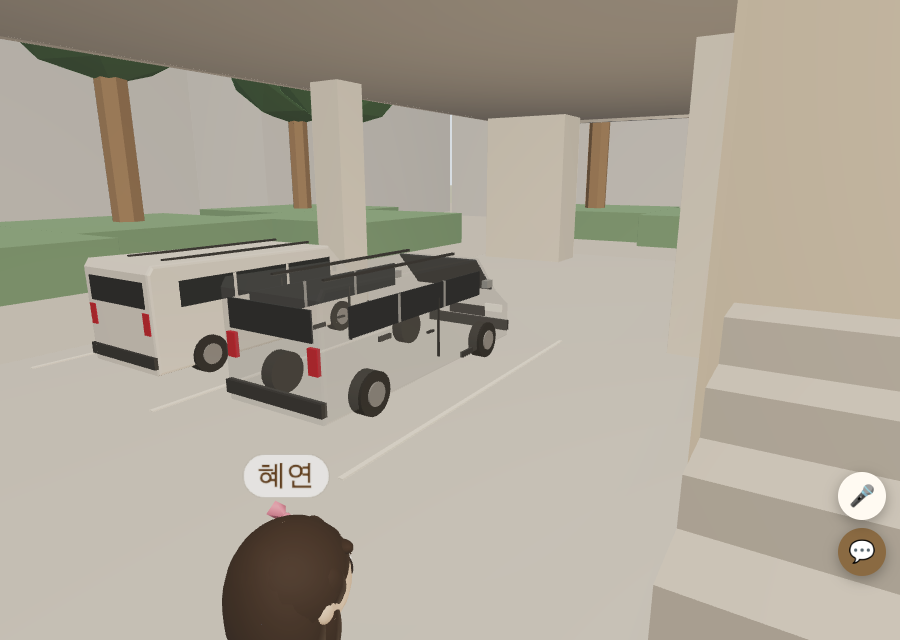
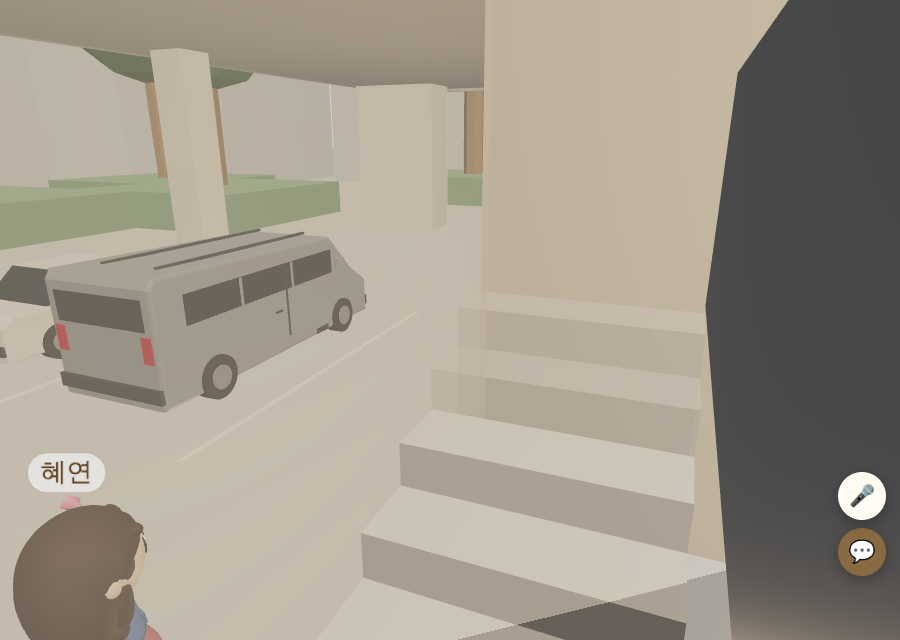
주차장: 승합차는 회색 1대만, 나머지 둘은 승용차로
Claude-Session: https://claude.ai/code/session_01Vz1QJf3UdmpjXu7m5EnhFF

diff --git a/index.html b/index.html
@@ -1666,7 +1666,31 @@
         B(0.03, 0.12, 0.5, h + 0.02, 0.38, 0, trim);                                                               // 앞 그릴
         [-0.3, 0.3].forEach((rz) => B(L - 1.1, 0.025, 0.03, -0.25, 1.19, rz, trim));                                // 지붕 가로대
       };
-      van(-10.8, -7.2, 0xf4f4f2); van(-8.6, -7.2, 0x9aa0a6); van(-4.2, -7.2, 0x2f3b4f);
+      // 승용차 (같은 0.6배: 길이 2.7 · 폭 1.1 · 높이 0.86). 앞은 북쪽
+      const sedan = (x, z, col) => {
+        const g = new THREE.Group(); g.position.set(x, F1_Y, z); g.rotation.y = Math.PI / 2; f1.add(g);
+        const L = 2.7, W = 1.1, h = L / 2;
+        const body = new THREE.MeshStandardMaterial({ color: col, roughness: 0.35, metalness: 0.15 }), glass = new THREE.MeshStandardMaterial({ color: 0x232c36, roughness: 0.1, metalness: 0.3 });
+        const trim = k.M(0x2c2f33, 0.6), tire = k.M(0x18191b, 0.8), hubM = new THREE.MeshStandardMaterial({ color: 0xc9ccd1, roughness: 0.25, metalness: 0.6 });
+        const headM = new THREE.MeshStandardMaterial({ color: 0xf8f6ee, emissive: 0xfff3d6, emissiveIntensity: 0.3, roughness: 0.2 }), tailM = new THREE.MeshStandardMaterial({ color: 0xb3261e, emissive: 0x8a1a14, emissiveIntensity: 0.25, roughness: 0.3 });
+        const add = (m, px, py, pz) => { m.position.set(px, py, pz); m.castShadow = m.receiveShadow = true; g.add(m); return m; };
+        const B = (w, hh, d, px, py, pz, m) => add(new THREE.Mesh(new THREE.BoxGeometry(w, hh, d), m), px, py, pz);
+        const ext = (pts, depth, m) => { const geo = new THREE.ExtrudeGeometry(new THREE.Shape(pts.map(([u, v]) => new THREE.Vector2(u, v))), { depth, bevelEnabled: true, bevelThickness: 0.025, bevelSize: 0.025, bevelSegments: 2 }); geo.translate(0, 0, -depth / 2); return add(new THREE.Mesh(geo, m), 0, 0, 0); };
+        ext([[-h, 0.14], [h, 0.14], [h, 0.4], [h - 0.15, 0.5], [-h + 0.1, 0.54], [-h, 0.46]], W - 0.05, body);                 // 아래 차체
+        ext([[-h + 0.45, 0.52], [h - 0.75, 0.52], [h - 1.15, 0.82], [-h + 0.8, 0.82]], W - 0.2, glass);                           // 창
+        B(L - 2.0 + 0.05, 0.03, W - 0.18, (-h + 0.8 + h - 1.15) / 2, 0.835, 0, body);                                             // 지붕
+        B(0.06, 0.28, W - 0.16, -0.12, 0.67, 0, body);                                                                             // 가운데 기둥
+        B(0.06, 0.1, W - 0.04, h + 0.02, 0.24, 0, trim); B(0.06, 0.1, W - 0.04, -h - 0.02, 0.24, 0, trim);                        // 범퍼
+        [-1, 1].forEach((sz) => {
+          B(0.04, 0.06, 0.24, h + 0.01, 0.4, sz * (W / 2 - 0.2), headM); B(0.04, 0.07, 0.22, -h - 0.01, 0.43, sz * (W / 2 - 0.2), tailM);
+          B(0.1, 0.06, 0.06, h - 0.8, 0.6, sz * (W / 2 + 0.03), body);                                                             // 옆 거울
+          [h - 0.5, -h + 0.5].forEach((wx) => {
+            const t = add(new THREE.Mesh(new THREE.CylinderGeometry(0.19, 0.19, 0.13, 22), tire), wx, 0.19, sz * (W / 2 - 0.04)); t.rotation.x = Math.PI / 2;
+            const c = add(new THREE.Mesh(new THREE.CylinderGeometry(0.1, 0.1, 0.02, 18), hubM), wx, 0.19, sz * (W / 2 + 0.03)); c.rotation.x = Math.PI / 2;
+          });
+        });
+      };
+      sedan(-10.8, -7.2, 0xf4f4f2); van(-8.6, -7.2, 0x9aa0a6); sedan(-4.2, -7.2, 0x2f3b4f);   // 승합차는 회색 1대 (사용자 요청)
 
       // #2 계단실 · 전실(로비) · 엘리베이터 (도면 A-302처럼 건물 앞 오른편, 십자가 탑 바로 뒤. 2~4층 계단실과 같은 자리 x -5.4~0, z -5.6~-2.45)
       //   서쪽 = 계단실(x -5.4~-3.0), 동쪽 = 유리 전실(x -3.0~-0.2). 전실 남쪽 벽(탑)에 엘리베이터 문, 북쪽 유리벽에 자동문.

diff --git a/docs/verification/2026-11-05/REPORT.md b/docs/verification/2026-11-05/REPORT.md
@@ -425,3 +425,4 @@
 - 3층 식당: 작은 나무(topiary) 5그루 모두와 배식대 옆·소그룹실 앞 복도 화분 2개를 뺌. 카페 자리 둘레·창가 화분만 남김.
 - 1층 필로티 주차장: 작은 상자 차 3대 → 교회 승합차 3대(흰색·은색·남색). 캐릭터 키 기준 0.6배(길이 3.1 · 폭 1.15 · 높이 1.18), 짧은 보닛·비스듬한 앞유리·높은 지붕·옆 창 띠·미닫이문 선·지붕 가로대·바퀴. 특정 차 모양은 따르지 않음.
 - 확인: `tools/walk-check/van.cjs` → van-park.png, van-side.png, van-front.png, dine-notree.png. 에러 없음.
+- (수정) 승합차는 가운데 회색 1대만, 양옆은 같은 0.6배 승용차(흰색·남색, 길이 2.7 · 폭 1.1 · 높이 0.86)로. van-side.png 다시 찍음.
